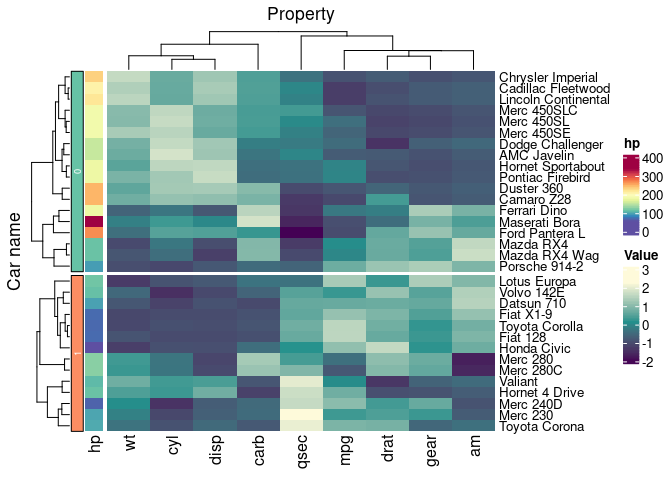
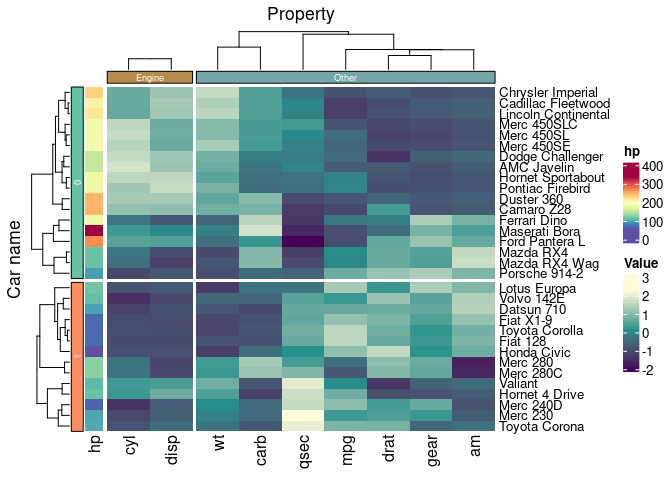
update readme for color grouping

diff --git a/README.md b/README.md
@@ -163,8 +163,13 @@ moment only the vertical dimension is supported) with dplyr, and the
 heatmap will be grouped accordingly
 
 ``` r
-mtcars_tidy |> 
-    group_by(vs) |>
+# Make up more groupings
+mtcars_tidy_groupings = 
+    mtcars_tidy |>
+    mutate(property_group = if_else(Property %in% c("cyl", "disp"), "Engine", "Other"))
+
+mtcars_tidy_groupings |> 
+    group_by(vs, property_group) |>
     heatmap(`Car name`, Property, Value ) |>
     add_tile(hp)
 ```
@@ -174,11 +179,18 @@ mtcars_tidy |>
 We can provide colour palettes to groupings
 
 ``` r
-mtcars_tidy |> 
-    group_by(vs) |>
+mtcars_tidy_groupings |> 
+    group_by(vs, property_group) |>
     heatmap(
         `Car name`, Property, Value ,
-        palette_grouping = list(c("#66C2A5", "#FC8D62"))
+        palette_grouping = list(
+            
+            # For first grouping (vs)
+            c("#66C2A5", "#FC8D62"), 
+            
+            # For second grouping (property_group)
+            c("#b58b4c", "#74a6aa")
+        )
     ) |>
     add_tile(hp)
 ```
